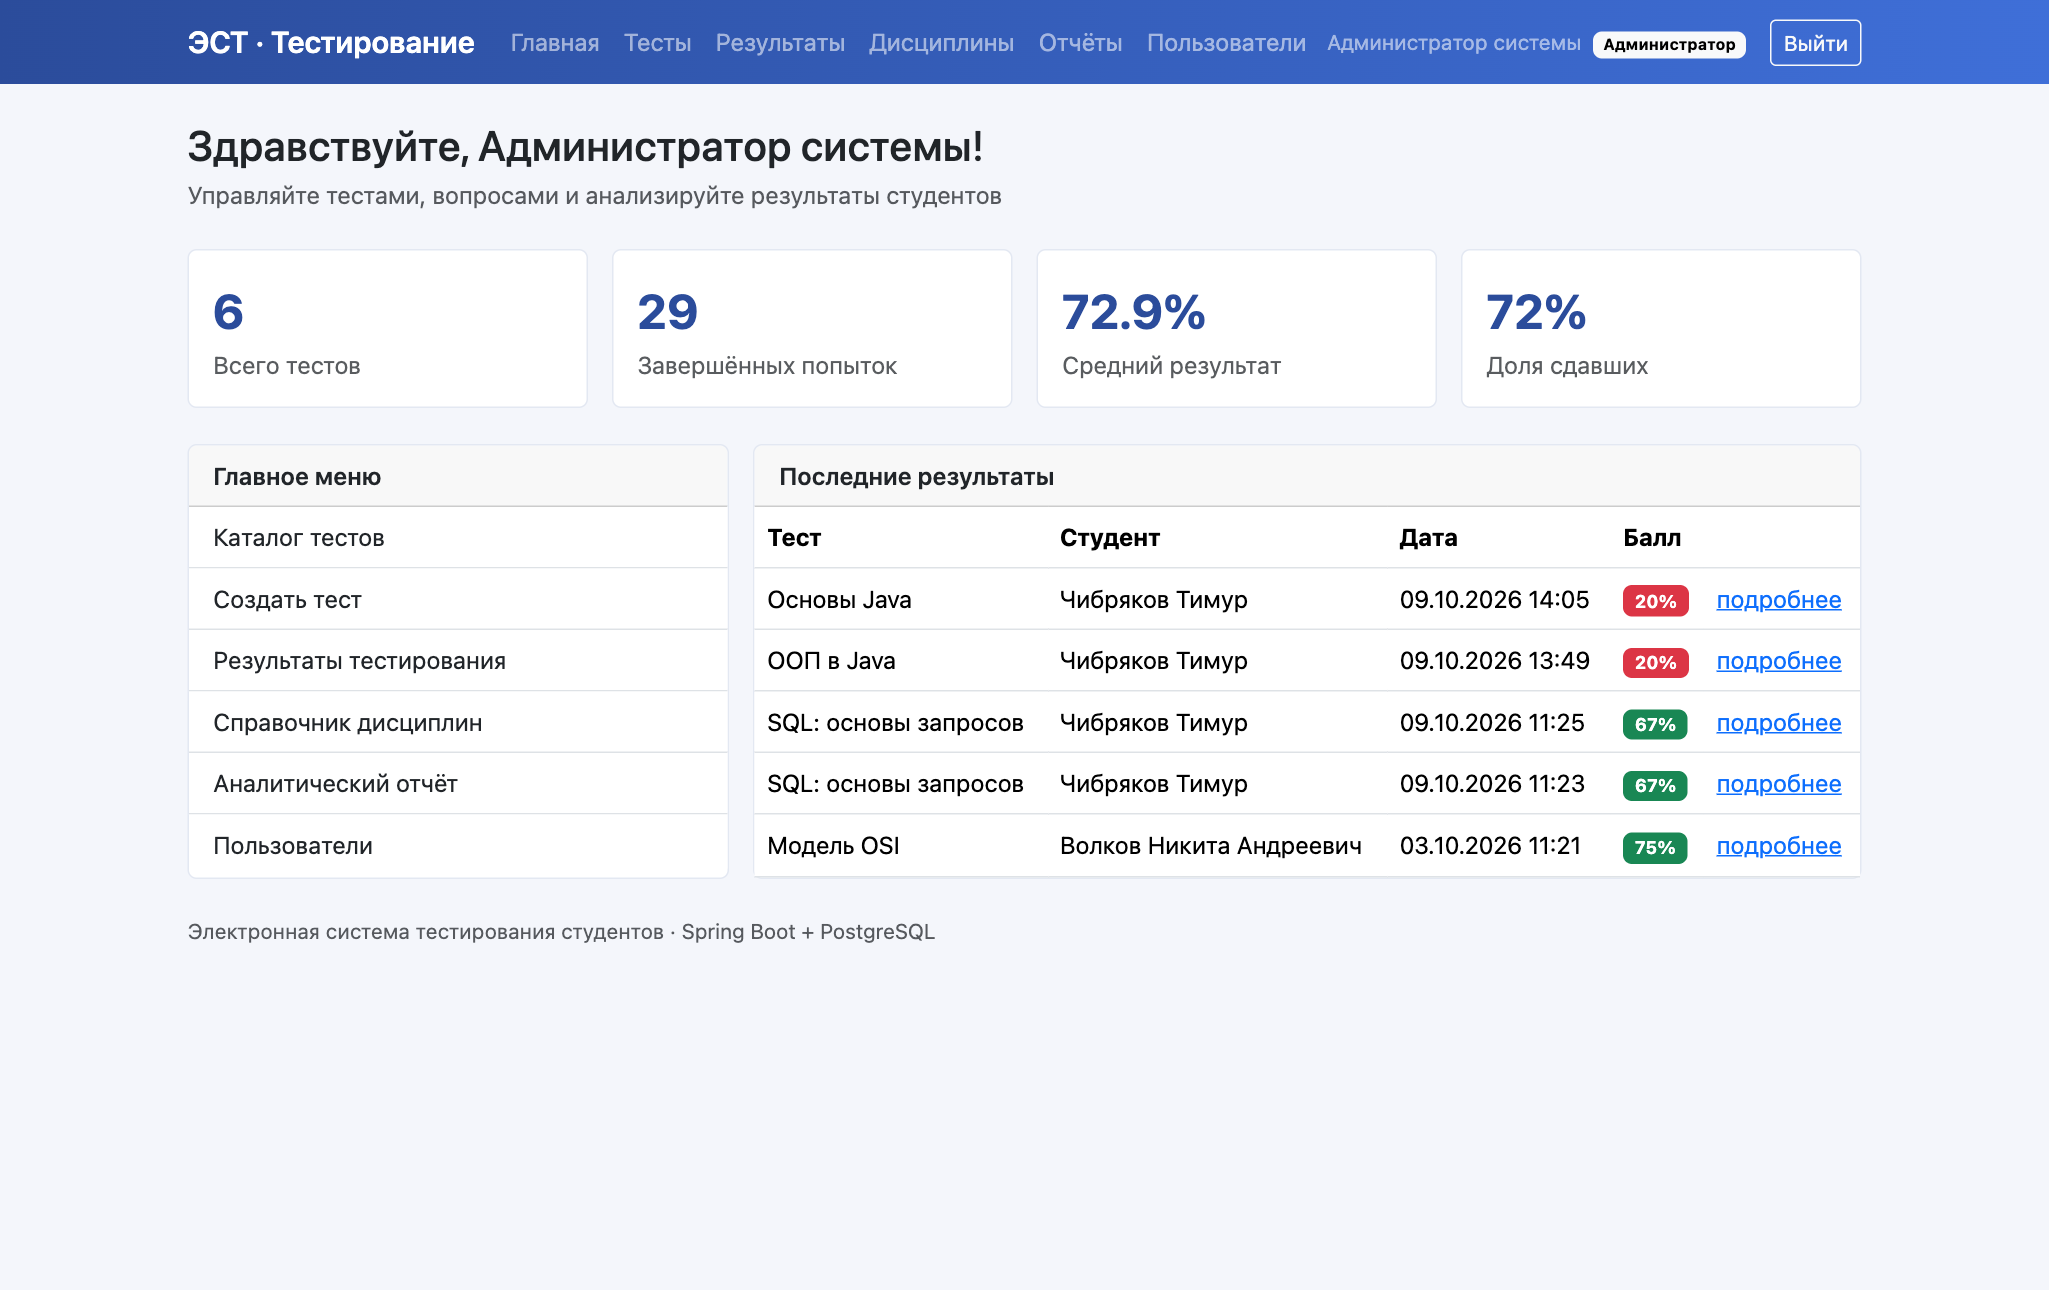
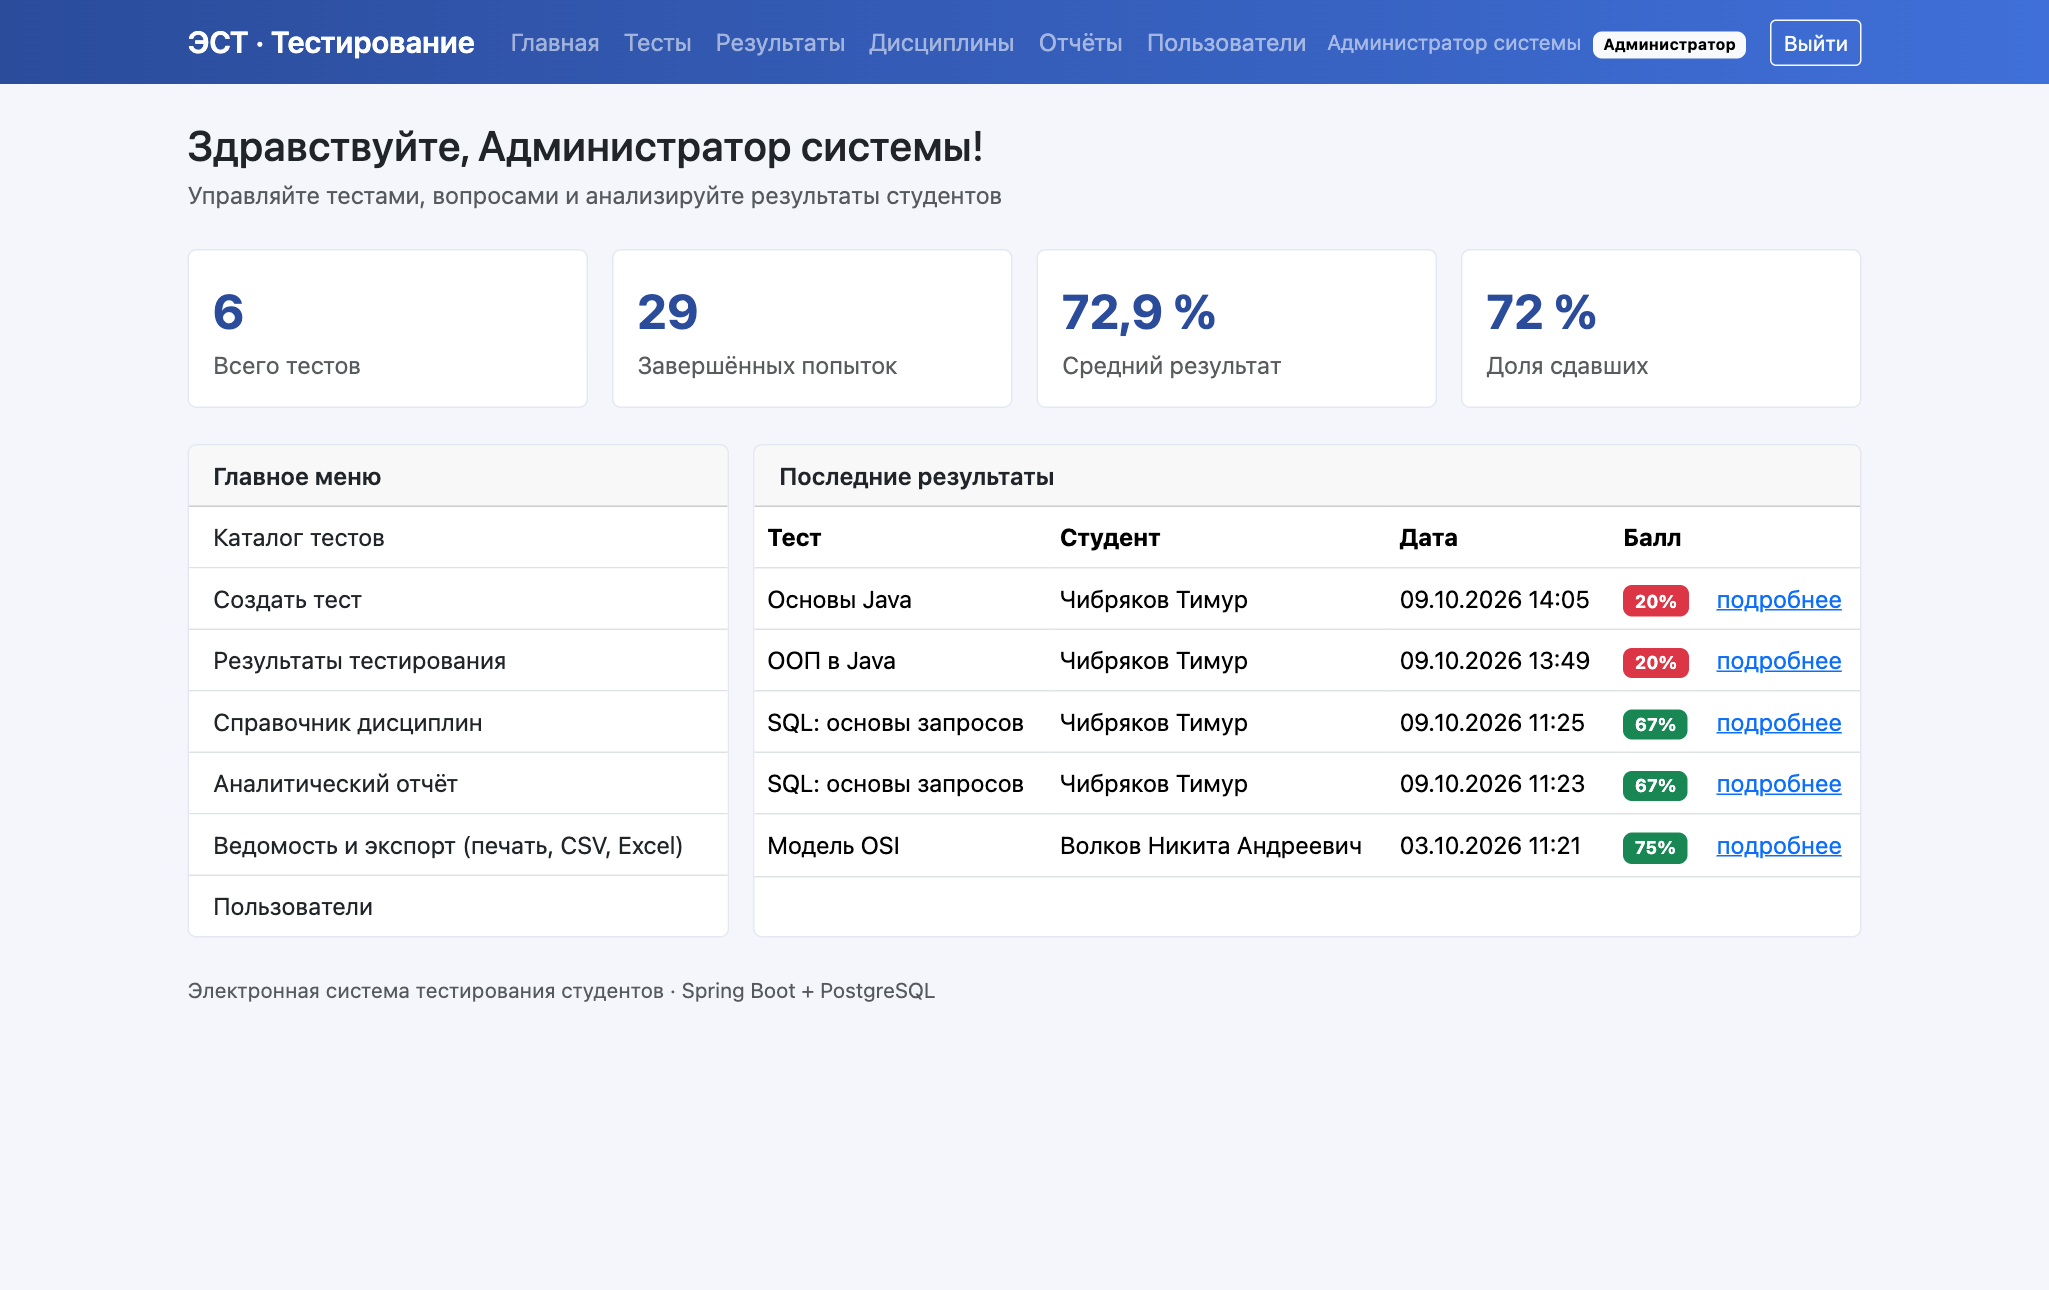
Аккуратные проценты в отчёте: округление до 0,1, русский формат, выравнивание

Changed region(s): [[0.0937, 0.6512, 0.4685, 0.7752], [0.7496, 0.2171, 0.7809, 0.2791], [0.5622, 0.2171, 0.5935, 0.2791]]

diff --git a/src/main/resources/templates/reports/index.html b/src/main/resources/templates/reports/index.html
@@ -17,8 +17,8 @@
         <div class="col-6 col-lg-2"><div class="card stat"><div class="card-body"><div class="stat-value" th:text="${summary.tests}">0</div><div class="stat-label">тестов</div></div></div></div>
         <div class="col-6 col-lg-2"><div class="card stat"><div class="card-body"><div class="stat-value" th:text="${summary.publishedTests}">0</div><div class="stat-label">опубликовано</div></div></div></div>
         <div class="col-6 col-lg-2"><div class="card stat"><div class="card-body"><div class="stat-value" th:text="${summary.finishedAttempts}">0</div><div class="stat-label">попыток</div></div></div></div>
-        <div class="col-6 col-lg-2"><div class="card stat"><div class="card-body"><div class="stat-value" th:text="${summary.averagePercent} + '%'">0</div><div class="stat-label">средний балл</div></div></div></div>
-        <div class="col-6 col-lg-2"><div class="card stat"><div class="card-body"><div class="stat-value" th:text="${summary.passRate()} + '%'">0</div><div class="stat-label">сдали</div></div></div></div>
+        <div class="col-6 col-lg-2"><div class="card stat"><div class="card-body"><div class="stat-value" th:text="${#numbers.formatDecimal(summary.averagePercent, 1, 1, 'COMMA')} + ' %'">0</div><div class="stat-label">средний балл</div></div></div></div>
+        <div class="col-6 col-lg-2"><div class="card stat"><div class="card-body"><div class="stat-value" th:text="${summary.passRate()} + ' %'">0</div><div class="stat-label">сдали</div></div></div></div>
     </div>
 
     <form class="d-flex flex-wrap gap-2 mb-3" method="get" th:action="@{/reports}">
@@ -42,19 +42,20 @@
                 <tr th:each="r : ${rows}">
                     <td th:text="${r.title}">тест</td>
                     <td th:text="${r.subject}">дисциплина</td>
-                    <td th:text="${r.attempts}">0</td>
+                    <td class="num" th:text="${r.attempts}">0</td>
                     <td>
-                        <div class="d-flex align-items-center gap-2">
+                        <div class="d-flex align-items-center gap-2" th:if="${r.attempts > 0}">
                             <div class="progress flex-grow-1" role="progressbar">
-                                <div class="progress-bar" th:style="'width:' + ${r.averagePercent} + '%'"
-                                     th:classappend="${r.averagePercent >= 60} ? 'bg-success' : 'bg-warning'"></div>
+                                <div class="progress-bar" th:style="'width:' + ${#numbers.formatDecimal(r.averagePercent, 1, 1, 'POINT')} + '%'"
+                                     th:classappend="${r.averagePercent >= 75} ? 'bg-success' : (${r.averagePercent >= 50} ? 'bg-warning' : 'bg-danger')"></div>
                             </div>
-                            <span class="small" th:text="${r.averagePercent} + '%'">0%</span>
+                            <span class="pct" th:text="${#numbers.formatDecimal(r.averagePercent, 1, 1, 'COMMA')} + ' %'">0 %</span>
                         </div>
+                        <span class="text-muted small" th:if="${r.attempts == 0}">нет попыток</span>
                     </td>
-                    <td th:text="${r.minPercent} + '%'">0</td>
-                    <td th:text="${r.maxPercent} + '%'">0</td>
-                    <td th:text="${r.passedCount} + ' (' + ${r.passRate()} + '%)'">0</td>
+                    <td class="num" th:text="${r.attempts > 0} ? ${r.minPercent} + ' %' : '—'">0</td>
+                    <td class="num" th:text="${r.attempts > 0} ? ${r.maxPercent} + ' %' : '—'">0</td>
+                    <td class="num" th:text="${r.attempts > 0} ? ${r.passedCount} + ' из ' + ${r.attempts} + ' (' + ${r.passRate()} + ' %)' : '—'">0</td>
                 </tr>
                 </tbody>
             </table>
@@ -76,7 +77,7 @@
                                 <div class="progress-bar" th:style="'width:' + ${r.correctRate()} + '%'"
                                      th:classappend="${r.correctRate() >= 50} ? 'bg-success' : 'bg-danger'"></div>
                             </div>
-                            <span class="small" th:text="${r.correctRate()} + '%'">0%</span>
+                            <span class="pct" th:text="${r.correctRate()} + ' %'">0 %</span>
                         </div>
                     </td>
                 </tr>

diff --git a/src/main/resources/templates/home.html b/src/main/resources/templates/home.html
@@ -28,7 +28,7 @@
         <div class="col-sm-6 col-lg-3" th:if="${me.staff}">
             <a class="card menu-card h-100" th:href="${me.admin} ? @{/reports} : @{/attempts}">
                 <div class="card-body">
-                    <div class="menu-value"><span th:text="${summary.averagePercent}">0</span>%</div>
+                    <div class="menu-value" th:text="${#numbers.formatDecimal(summary.averagePercent, 1, 1, 'COMMA')} + ' %'">0 %</div>
                     <div class="text-muted">Средний результат</div>
                 </div>
             </a>
@@ -36,7 +36,7 @@
         <div class="col-sm-6 col-lg-3" th:if="${me.staff}">
             <a class="card menu-card h-100" th:href="${me.admin} ? @{/reports} : @{/attempts}">
                 <div class="card-body">
-                    <div class="menu-value"><span th:text="${summary.passRate()}">0</span>%</div>
+                    <div class="menu-value" th:text="${summary.passRate()} + ' %'">0 %</div>
                     <div class="text-muted">Доля сдавших</div>
                 </div>
             </a>

diff --git a/src/main/resources/static/css/app.css b/src/main/resources/static/css/app.css
@@ -30,3 +30,7 @@ body { background: #f4f6fb; }
 .sheet-signs div { margin-top: 18px; }
 .sheet-preview { background: #fff; overflow-x: auto; }
 .sheet-columns { columns: 2; }
+
+/* Аккуратные числа в таблицах отчёта */
+.pct { min-width: 4.2rem; text-align: right; font-variant-numeric: tabular-nums; font-size: .9rem; white-space: nowrap; }
+.num { font-variant-numeric: tabular-nums; white-space: nowrap; }

diff --git a/src/main/java/ru/edu/testing/dto/TestStatRow.java b/src/main/java/ru/edu/testing/dto/TestStatRow.java
@@ -4,9 +4,14 @@ package ru.edu.testing.dto;
 public record TestStatRow(Long testId, String title, String subject, long attempts,
                           double averagePercent, int minPercent, int maxPercent, long passedCount) {
 
+    /** Средний процент всегда округляется до одного знака, каким бы конструктором ни была создана строка. */
+    public TestStatRow {
+        averagePercent = round(averagePercent);
+    }
+
     public TestStatRow(Long testId, String title, String subject, Number attempts,
                        Number averagePercent, Number minPercent, Number maxPercent, Number passedCount) {
-        this(testId, title, subject, attempts.longValue(), round(averagePercent.doubleValue()),
+        this(testId, title, subject, attempts.longValue(), averagePercent.doubleValue(),
                 minPercent.intValue(), maxPercent.intValue(), passedCount == null ? 0 : passedCount.longValue());
     }
 

diff --git a/src/test/java/ru/edu/testing/service/ReportServiceTest.java b/src/test/java/ru/edu/testing/service/ReportServiceTest.java
@@ -17,6 +17,14 @@ class ReportServiceTest {
     }
 
     @Test
+    @DisplayName("Отчёт: средний процент округляется до одного знака")
+    void averageIsRounded() {
+        var row = new ru.edu.testing.dto.TestStatRow(Long.valueOf(1), "Тест", "Дисциплина", 7L, 71.42857142857143, 50, 100, 5L);
+        assertEquals(71.4, row.averagePercent());
+        assertEquals(71, row.passRate());
+    }
+
+    @Test
     @DisplayName("Ведомость: перевод процента в оценку по шкале 85/70/50")
     void gradeScale() {
         ru.edu.testing.dto.SheetForm f = new ru.edu.testing.dto.SheetForm();
